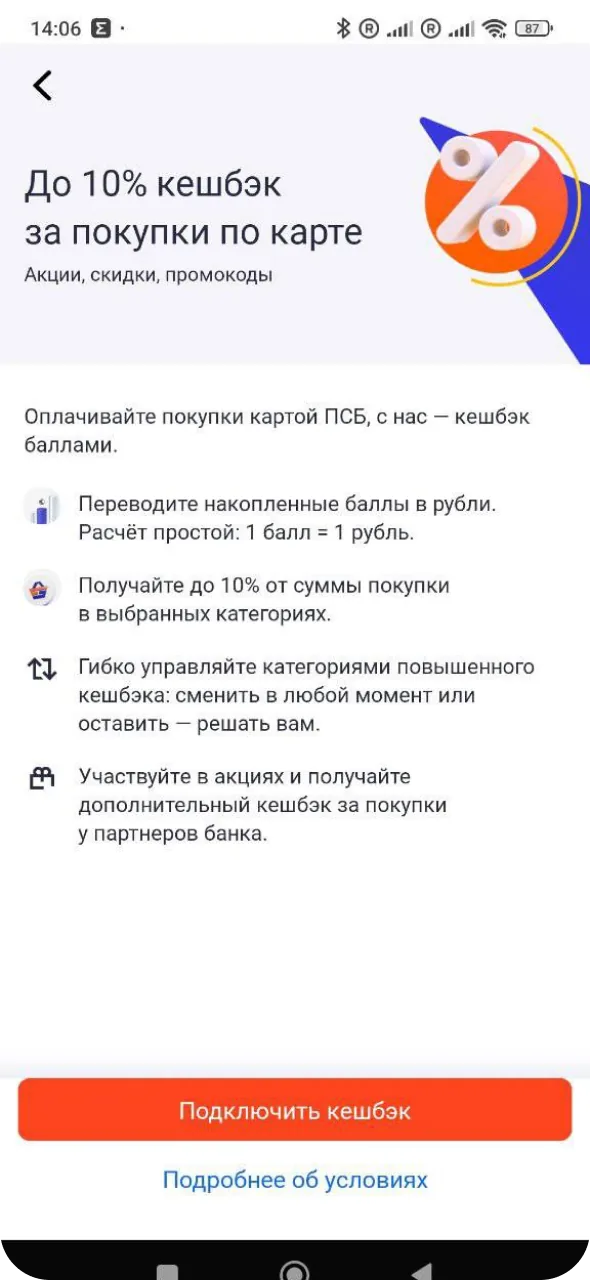
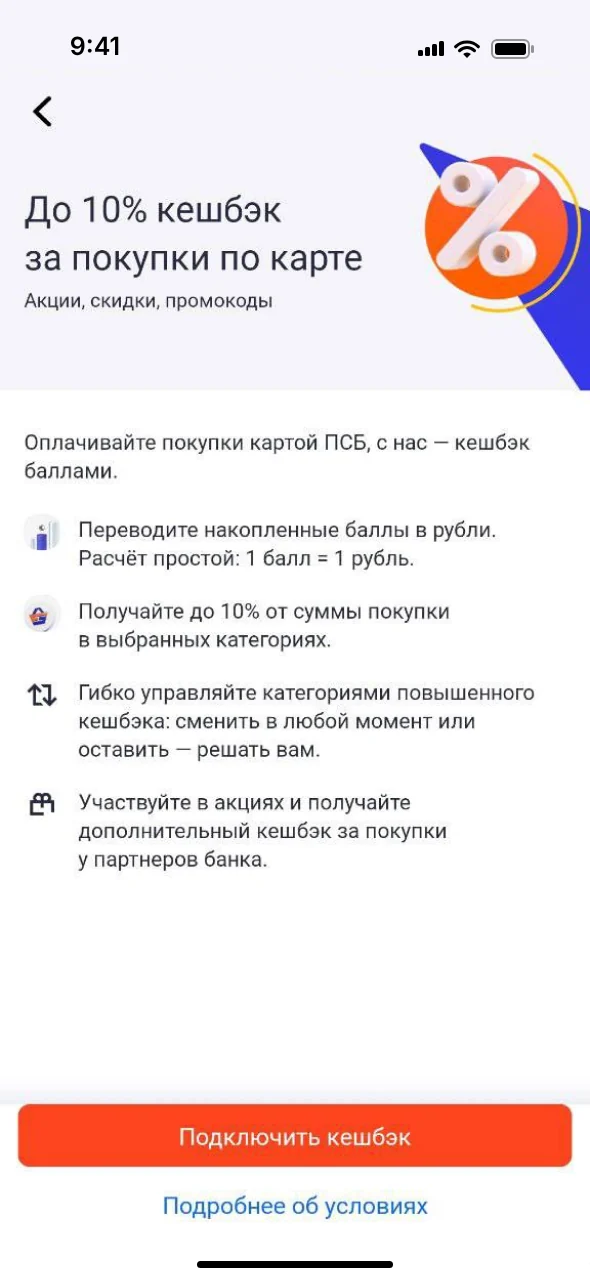
Clean up the PSB race: one time bar, iPhone-style before screens, real category picking
The segmented step cells under the phones become one time bar per lane
on a shared scale, so the new flow's bar stops at a fifth. The before
screens lose the Android status and navigation bars, the scenario's red
highlight boxes and the scribbled-out address: every screen gets the
same iOS status bar and home indicator, and a made-up address. The new
flow now shows categories being picked one by one instead of already
checked.

Claude-Session: https://claude.ai/code/session_01K9M4KKip7VrCMi121CRaVU

diff --git a/src/scripts/case.ts b/src/scripts/case.ts
@@ -141,7 +141,7 @@ export function initRace(root: HTMLElement) {
     away: el.querySelector<HTMLElement>('[data-away]'),
     shown: -1,
     screens: [...el.querySelectorAll<HTMLElement>('[data-screen]')],
-    cells: [...el.querySelectorAll<HTMLElement>('[data-cell]')],
+    bar: el.querySelector<HTMLElement>('[data-bar]'),
     clock: el.querySelector<HTMLElement>('[data-clock]'),
     step: el.querySelector<HTMLElement>('[data-step]'),
     caption: el.querySelector<HTMLElement>('[data-caption]'),
@@ -181,7 +181,7 @@ export function initRace(root: HTMLElement) {
         l.shown = screen;
       }
       if (l.away) l.away.textContent = l.aways[screen] ?? '';
-      l.cells.forEach((c, i) => c.classList.toggle('is-on', i < steps));
+      if (l.bar) l.bar.style.width = `${(t / longest) * 100}%`;
       if (l.clock) l.clock.textContent = clock(t);
       if (l.step) l.step.textContent = String(Math.max(1, steps));
       if (l.caption) l.caption.textContent = l.captions[screen] ?? '';

diff --git a/CLAUDE.md b/CLAUDE.md
@@ -41,5 +41,5 @@
 - Готово (ветка `claude/wonderful-wright-xhhyv3`, слита в `main`): разгрузка обзора PSB — владелец счёл блоки «Проблемы и решения» и «Результаты» слишком тяжёлыми («слишком много акцентов одновременно»). Было шесть цветов, восемь плашек, десять крупных элементов, три анимации. Сделано: «Результаты» без плашек — шкалы прямо на листе, сетка 2×2 с пунктирами, как HUD Зельды поверх мира; все шкалы голубые, числа цвета чернил, розовые только сердечки (токены `--mana-*`, `--stamina-*`, `--heart-text` удалены). В колоде заданий без спрайтов и анимации, стрелка серая (`--text-disabled`), решение обычной насыщенности. Единственное движение на экране — шкалы. Затем по замечаниям владельца: подписи в карточках колоды и шкал — полужирные цвета чернил в размере основного текста (мелкие серые «Главная», «Данные карты» терялись); в «Результатах» сначала число, под ним шкала, между шагами и временем 24px, вокруг пунктиров `--space-stack` (было слипшимся). «Результаты» всё равно были «тяжеловато и скомканно» — переделаны в ряд метрик одной структуры (`Hud.astro`, по руководству dataviz: KPI-ряд одинаковых плиток): подпись, крупное число Fira Sans semibold с мелкой единицей, строки пояснения, одна шкала, прижатая к низу, чтобы шкалы стояли на одной линии. Четыре в ряд (контейнер ≤720px — 2×2), без плашек и пунктиров. Время — одна полоса: светлый трек того же голубого — «было», заливка — «стало»; ячейки шагов убраны, шаги в пояснении («5 шагов вместо 12»); мана — полоса; лёгкость — сердечки. Отступы проверены замером по закону близости (NN/g «Proximity»: заголовок ближе к своему тексту, чем к предыдущему; правило «внутри ≤ снаружи», равенство делает группы неоднозначными): заголовок блока → содержимое 16px, между карточками колоды 24px (рамка сайта; было 20 = внутреннему полю), колонки метрик 40px (на ≤720px — 24), сноска под метриками на 40px, как ряды. В метрике шкала сразу под числом (12px), пояснения под шкалой: раньше шкала прижималась к низу и отрывалась от числа. На телефоне общее `.sheet > * + * { 24px }` перебивало отступ подразделов — для `.sub-title`, `.quests`, `.results` там 48px.
 - Готово (ветка `claude/wonderful-wright-xhhyv3`, слита в `main`): «Результаты» PSB — шкалы, как в Зельде (`components/case/Hud.astro`, данные `stats` в `psb.astro`, запуск `initHud` в `case.ts`). Шаги — ячейки, лишние гаснут с конца; время — две полосы выносливости «было/стало» (зелёная), «стало» сжимается от прежней длины; first click success — мана (лиловая); SEQ — семь сердечек (розовые), неполное заливается целыми пикселями. Играют один раз при появлении, при reduced motion и без JS сразу конечное состояние. Цифры в тон шкале, затемнённые до 3:1 (токены `--mana-*`, `--stamina-*`, `--heart-*` в `colors.css`, полосы — цвета поляны футера), шаги остаются голубыми; Fira Mono (у Handjet перечёркнутый ноль, 105 читалось как 185). Владелец выбрал их из трёх набросков; не выбраны окно итогов боя в духе Final Fantasy и «сравнение снаряжения». Обзор: вступление — история, «Задания» — пары «проблема → решение», «Результаты» — цифры. Блок «Проблемы и решения» (раньше «Задания», переименовал владелец; `components/case/QuestDeck.astro`, данные `quests` в `psb.astro`) — колода карточек, рифмуется с «Результатами»: те же карточки (`--surface-raised`, пиксельные углы) в той же сетке 2×2, сверху подпись (спрайт 2px на пиксель + название-ссылка на раздел), ниже приглушённая проблема, голубая пиксельная стрелка вниз и крупно решение — как большое число на шкалах; стрелка с решением прижаты к низу, чтобы решения в ряду стояли на одной линии. При появлении стрелки по очереди «шагают» вниз (тот же `initHud` через `data-hud`), при reduced motion сразу. Зачёркивание проблемы владелец отклонил (читается хуже, похоже на ошибку); не выбраны также подписи «Было / Стало», значки «!» и галочки, пунктир. На телефоне (контейнер ≤560px) колода листается свайпом по одной карточке со scroll-snap, следующая выглядывает, под ней точки (`initQuestDeck` в `case.ts`). В карточке по одной целой мысли на проблему и на решение, понятной без раздела ниже: сокращения до 4–6 слов («Третья вкладка и CVV по СМС») владелец счёл непонятными; слово из подписи в тексте не повторять («Их можно…»). Иконки заголовков — пиксельные `scroll` (свиток задания, закрученный край сверху и валик снизу; симметричный вариант читался как колонна) и `trophy` (кубок у «Результатов»: столбики графика владелец счёл неподходящими); неиспользуемые `alert`, `spark`, `trend` удалены из `pixel-icons.ts`. Отклонены: полоса из четырёх столбцов (на телефоне «месиво»), две колонки абзацев («простыня текста»), задания внутри карточек результатов. Перед «Заданиями» и «Результатами» отступ `--space-article`, как между подразделами: с обычным отступом вступление, задания и результаты сливались в один поток. Главное в блоке — связка проблемы и решения: убрать проблемы ради разгрузки было ошибкой (владелец: «должны показать проблему и её решение»). «Результаты» — четыре карточки: кешбэк и данные карты (в каждой шаги ячейками и время полосами, `kind: 'flow'` в `Hud.astro`), мана и сердечки. Владелец отклонил: журнал с вкладками (тёмная активная вкладка и плашки тяжелы рядом со шкалами; прятать суть кейса во вкладки нельзя — NN/g «Tabs, Used Right», GOV.UK «tabs hide content», нанимающие сканируют портфолио), добычу (монеты, рупии) в заданиях — перегруз мелкими элементами и повтор цифр результатов, «дебафф → бафф», статус-эффекты, карточки предметов, плашки с отрядом.
 - Готово (ветка `claude/charming-cray-bsbm8d`): на телефоне страница PSB больше не прокручивается вбок в пустоту — скрытые подписи «Было/Стало» в колоде «Проблемы и решения» (`position: absolute`) вылезали из свайп-ленты и растягивали страницу вдвое; `.quest` теперь `position: relative`. Живые прототипы снова на Onest: приложение задаёт шрифт на `<body>`, которого в shadow root нет, и туда протекал Fira Sans страницы — шрифт задан на `.app` в `LivePhone.astro`.
-- Готово (ветка `claude/loving-mayer-3zliux`): «до/после» в разделе «Подключение кешбэка» PSB — забег (`components/case/Race.astro`, `initRace` в `case.ts`, данные `race` у направления в `psb.astro`). Владелец выбрал его из трёх набросков; не выбраны маршрут (дорога в масштабе времени) и стопки экранов, отклонены две карусели и сетка маленьких экранов «до». Два iPhone 17 Pro рядом, «Было» и «Стало», стартуют вместе, когда забег на экране, и идут по измеренным медианам (105 и 23 с), ускоренно в 7 раз; вне экрана пауза, кнопка «Ещё раз». Экраны распределены по времени равномерно (время отдельных шагов не мерили), следующий въезжает коротким сдвигом поверх прежнего. Под телефоном ячейки шагов (12 серых / 5 голубых), таймер Fira Sans, «Шаг N из M · подпись экрана», на финише «кешбэка нет» / «готово». Когда старый путь уходит из приложения, у подписи «Было» голубым «почта» / «браузер» (`away`). Без JS и при reduced motion — финиш. `Phone` принимает массив экранов (видим `is-on`, по умолчанию последний). Экраны «до» — исходный флоу из Figma-файла PSB (секция «Пользователь подключает кешбэк», node 28-489), 11 штук `public/assets/cases/psb/before/cb-*.webp` 590×1280, последний — та же главная без кешбэка. Текст «Проблема / Решение / Результат» переписан по флоу: где прятался кешбэк, почему путь длинный (почта, браузер, ошибка, согласие), что теперь (внутри приложения, сразу виден у баланса), одна главная цифра и честный минус (63% без ошибок).
+- Готово (ветка `claude/loving-mayer-3zliux`): «до/после» в разделе «Подключение кешбэка» PSB — забег (`components/case/Race.astro`, `initRace` в `case.ts`, данные `race` у направления в `psb.astro`). Владелец выбрал его из трёх набросков; не выбраны маршрут (дорога в масштабе времени) и стопки экранов, отклонены две карусели и сетка маленьких экранов «до». Два iPhone 17 Pro рядом, «Было» и «Стало», стартуют вместе, когда забег на экране, и идут по измеренным медианам (105 и 23 с), ускоренно в 7 раз; вне экрана пауза, кнопка «Ещё раз». Экраны распределены по времени равномерно (время отдельных шагов не мерили), следующий въезжает коротким сдвигом поверх прежнего. Под телефоном полоса времени в общем масштабе (по самому долгому пути: «Было» заполняет её целиком серым, «Стало» останавливается на 23 с голубым; сегментированные ячейки владелец забраковал), таймер Fira Sans, «Шаг N из M · подпись экрана», на финише «кешбэка нет» / «готово». Когда старый путь уходит из приложения, у подписи «Было» голубым «почта» / «браузер» (`away`). Без JS и при reduced motion — финиш. `Phone` принимает массив экранов (видим `is-on`, по умолчанию последний). Экраны «до» — исходный флоу из Figma-файла PSB (секция «Пользователь подключает кешбэк», node 28-489), 11 штук `public/assets/cases/psb/before/cb-*.webp` 590×1280, последний — та же главная без кешбэка. Экраны вычищены под iPhone (`scratchpad`-скрипт на canvas, не в репозитории): Android-статусбар и панель кнопок заменены статусбаром iOS «9:41» и полоской «домой», у iOS-экранов статусбар перерисован так же, на главной убраны красные рамки-пометки сценария, замазанная почта заменена выдуманной ivan.petrov@mail.ru. «Стало» — пять экранов: «Хочу подключить», категории без отметок, отмечен «Деливери», отмечен «Бензин», успех (`cb-connect-0/1.webp` — копии `cb-connect.webp` с пустыми чекбоксами). Текст «Проблема / Решение / Результат» переписан по флоу: где прятался кешбэк, почему путь длинный (почта, браузер, ошибка, согласие), что теперь (внутри приложения, сразу виден у баланса), одна главная цифра и честный минус (63% без ошибок).
 - Дальше: остальные страницы кейсов проектируем заново, черновик Claude Design для них не используем.
